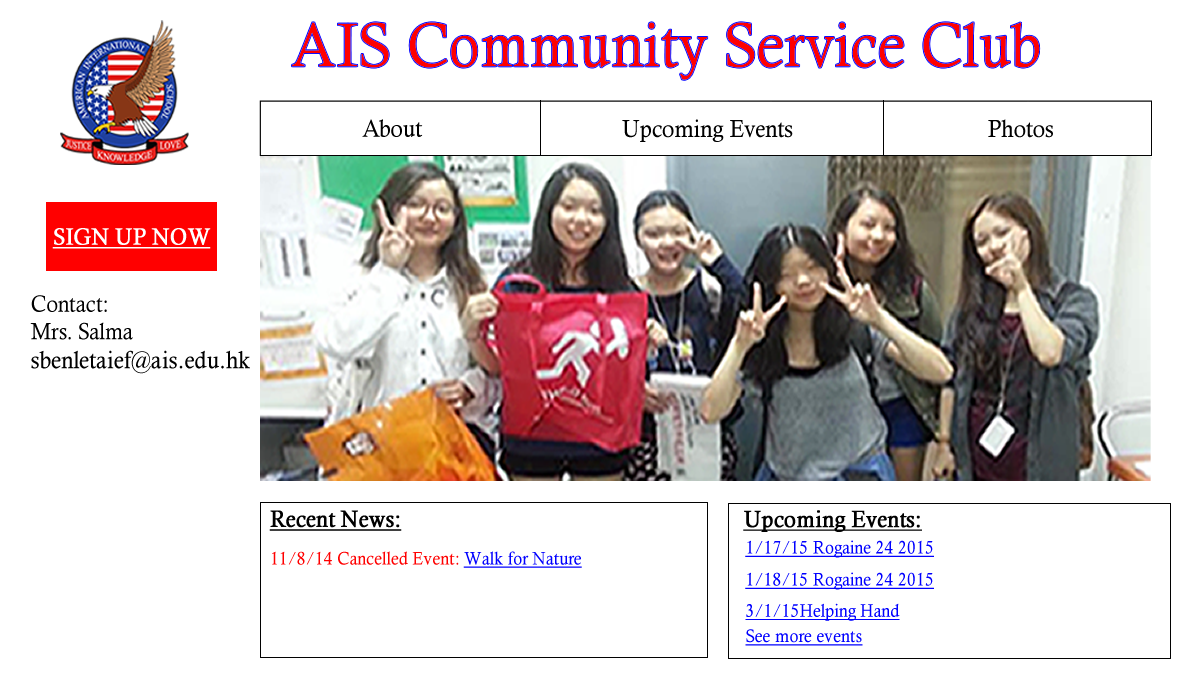
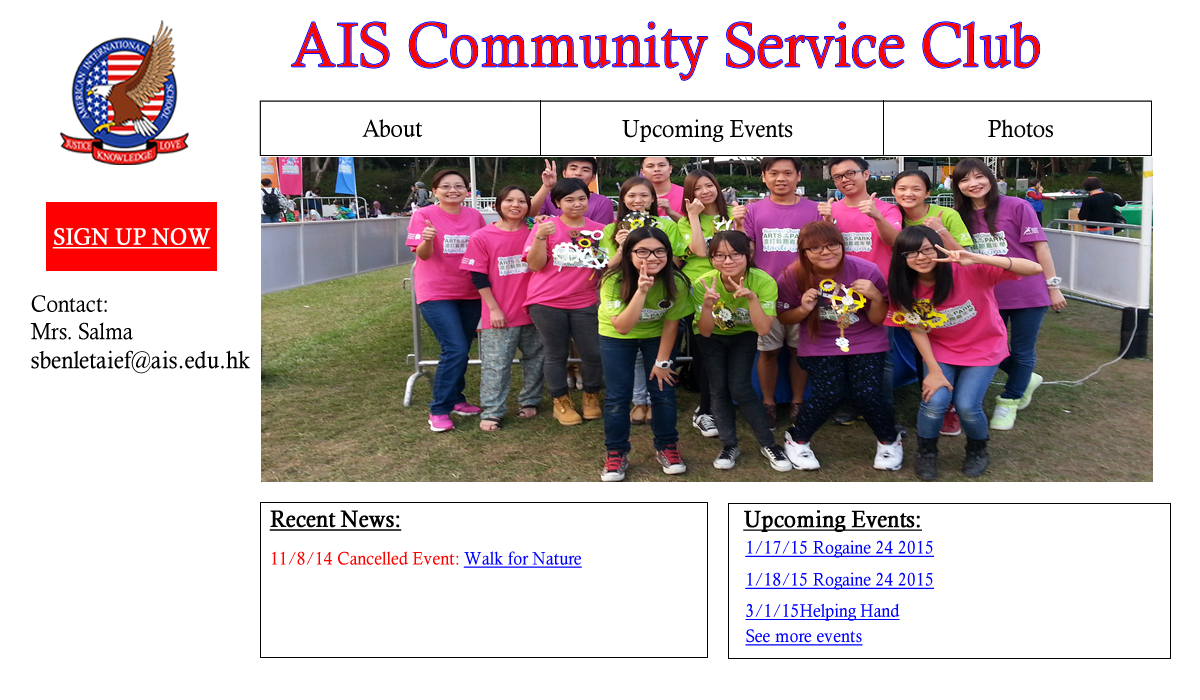
Added Comments

diff --git a/howimademyhomepage.html b/howimademyhomepage.html
@@ -1,6 +1,7 @@
 <!DOCTYPE html>
 <html>
   <body>
+<!--Wireframe-->
     <h2>Wireframe</h2>
       <p>Idea 1</p>
       <img src="WIREFRAME%201.png" />
@@ -11,7 +12,8 @@
       <p>Idea 4</p>
       <img src="Wireframe%20Idea%204.png" />
       <p>We discussed in the group, and decided to use Idea 1 because we want to put Sign Up button on the upper left to get attention from the user.</p>
-    <h2>Storyboard by Firework</h2>
+<!--Storyboard-->
+    <h2>Storyboard by Fireworks</h2>
       <p>We started creating the storyboard based on the wireframe we chose.</p>
       <p><img src="Storyboard1.png" alt="Storyboard1" width="800" height="500" /></p>
       <h3>Wireframe made by my group members</h3>
@@ -19,14 +21,32 @@
       <img src="StoryboardByJoEun.png" alt="StoryboardByJoEun" width="800" height="500" />
       <h4>Dhaval's:</h4>
       <img src="StoryboardByDhaval.png" />
-
-<h3>Getting feedback</h3>
-<p>Judy said we should change the main picture because the picture does not show the aspect of community service that much.</p>
-    <h2>Dreamweaver</h2>
+      <h3>Getting feedback</h3>
+      <p>Judy said we should change the main picture because the picture does not show the aspect of community service that much.</p>
+<!--Dreamweaver-->    
+      <h2>Dreamweaver</h2>
     <h2>Actual pages I created:</h2>
     <ul>
       <li><a href="htdocs/index-FW.htm">Fireworks Version</a></li>
       <li><a href="htdocs/index-DW.html">Dreamweaver Version</a></li>
     </ul>
+<!--Strengths & Weaknesses-->
+    <h2>Fireworks/Dreamweaver</h2>
+      <h3>What are the strengths/weaknesses of using fireworks and dreamweaver when you creeate webpage?</h3>
+      <h2>Fireworks</h2>
+        <p>Strengths</p>
+        <ul>
+          <li></li>
+        </ul>
+        <p>Weaknesses</p>
+        <ul>
+        </ul>
+      <h2>Dreamweaver</h2>
+        <p>Strengths</p>
+        <ul>
+        </ul>
+        <p>Weaknesses</p>
+        <ul>
+        </ul>
   </body>
 </html>
